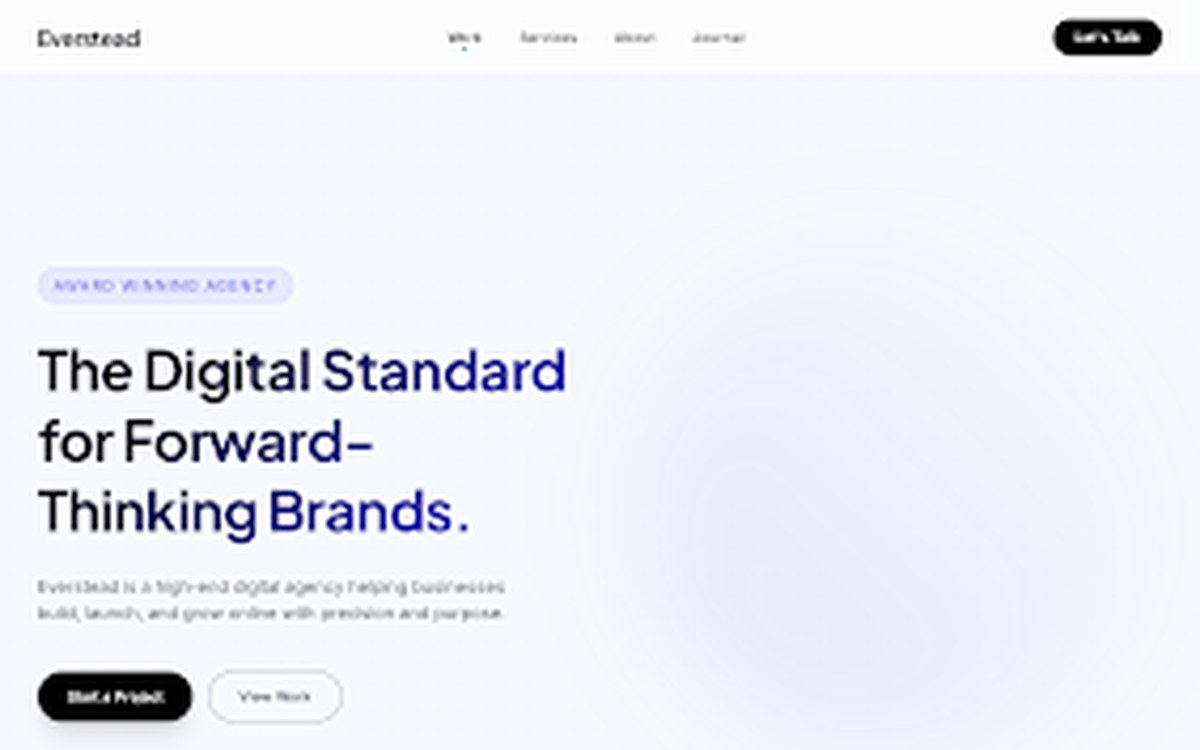
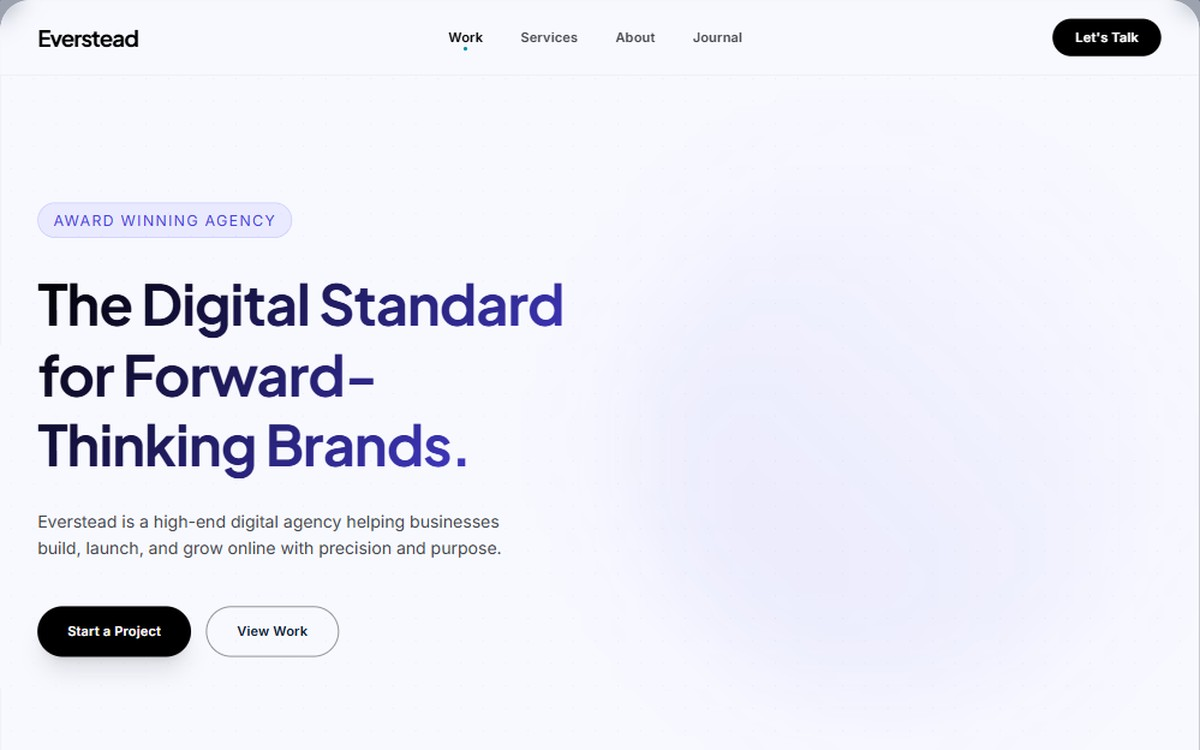
fix(work): sharp before image, device frame detected and stripped
Saad supplied a proper capture of the old design at 1017px, replacing the
283px one. The comparison now renders at about 1.2x rather than 4.2x, so
the old site's own headline and copy are legible instead of mush, which
matters: the argument of the page is that the old design was generic,
and a viewer has to be able to READ it to agree.

The new capture arrived inside a grey device frame. That is stripped
rather than cropped by hand: the script walks in from each edge until a
row or column is mostly light, finding the page at 11px in from the left
and 9px from the top. A framed mockup beside a raw screenshot reads as
two different kinds of image, and that difference competes with the only
one the page is about.

Verified: 100/100/100/100 on both case study pages, all breakpoints
clean, 22 interaction checks pass.

diff --git a/lib/work/cases.ts b/lib/work/cases.ts
@@ -58,10 +58,11 @@ export const caseStudies: CaseStudy[] = [
     id: 'everstead',
     projectSlug: 'everstead',
     /* Both cropped to the same slice of each page, the hero and what sits
-       under it, so the slider compares like with like.
-       NOTE: the before was supplied as a 283px-wide capture and is upscaled
-       about 4x, which is visibly soft next to the after. A re-export from the
-       original design file at 2x would fix it and needs no code change. */
+       under it, so the slider compares like with like. The before was
+       recaptured at 1017px and had its device frame detected and stripped, so
+       it renders at about 1.2x rather than the 4.2x of the first attempt: a
+       framed mockup beside a raw screenshot reads as two different KINDS of
+       image, which distracts from the only difference that matters. */
     beforeImage: '/work/everstead-before.jpg',
     afterImage: '/work/everstead-after.jpg',
     copy: {
